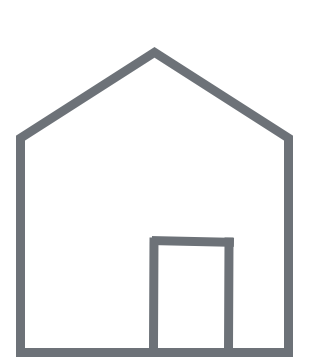
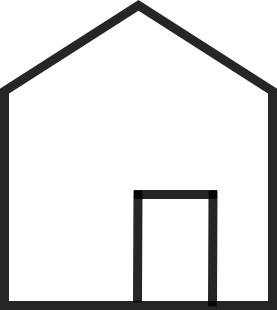
ionicons subbed for previous

Changed region(s): [[0.0, 0.0, 1.0, 1.0]]

diff --git a/index.html b/index.html
@@ -38,14 +38,14 @@
 			<li><a class="navLink" href="#contact" id="nav" role="navigation">CONTACT</a></li>
 		</ul>
 		<ul class="nav" id="small">
-			<li><a class="navLink" href="#home" id="nav" role="navigation"><img id="icon" src="home.png"></a></li>
-			<li><a class="navLink" href="#design" id="nav" role="navigation"><img id="icon" src="design.png"></a></li>
-			<li><a class="navLink" href="#coffee" id="nav" role="navigation"><img id="icon" src="coffee.png"></a></li>
+			<li><a class="navLink" href="#home" id="nav" role="navigation"><img id="icon" src="home-outline.svg"></a></li>
+			<li><a class="navLink" href="#design" id="nav" role="navigation"><img id="icon" src="color-palette-outline.svg"></a></li>
+			<li><a class="navLink" href="#coffee" id="nav" role="navigation"><img id="icon" src="cafe-outline.svg"></a></li>
 			<li><a class="navLink" href="https://www.bobrobert.com/#print" target="_blank" id="nav"
-					role="navigation"><img id="icon" src="pub.png"></a></li>
+					role="navigation"><img id="icon" src="book-outline.svg"></a></li>
 			<li><a class="navLink" href="https://www.bobrobert.com" target="_blank" id="nav" role="navigation"><img
-						id="icon" src="cv.png"></a></li>
-			<li><a class="navLink" href="#contact" id="nav" role="navigation"><img id="icon" src="contact.png"></a></li>
+						id="icon" src="school-outline.svg"></a></li>
+			<li><a class="navLink" href="#contact" id="nav" role="navigation"><img id="icon" src="mail-outline.svg"></a></li>
 		</ul>
 	</nav>
 	<div class="scrolling-wrapper">
@@ -60,9 +60,9 @@
 						some designs and<br>
 						websites I've built.
 						<br><br><br><br>
-						Home.<br>
+						Home page.<br>
 						<a href="https://archeyes.com/ghost-house-datar-architecture/" target="_blank"
-							style="color:rgba(0, 0, 0, 0.384) !important">
+							style="font-size: 90%; color:rgba(0, 0, 0, 0.384) !important">
 							Ghost House<br>
 							Datar Architecture<br>
 							Tokyo</a>
